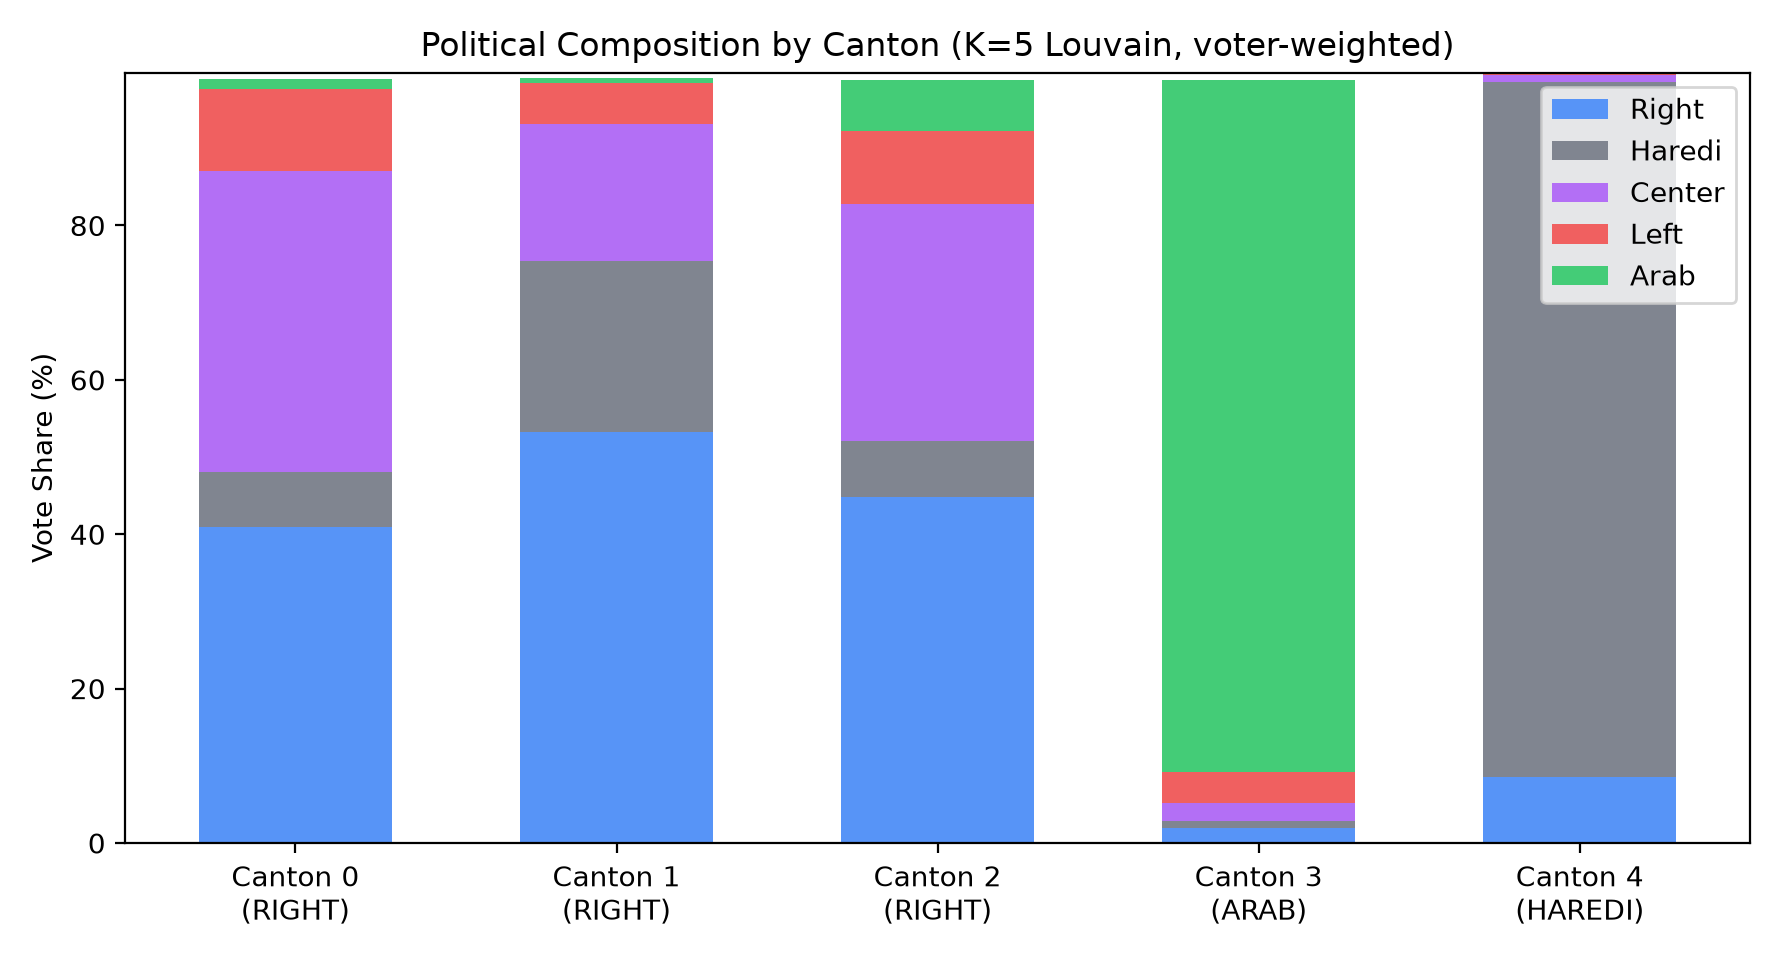
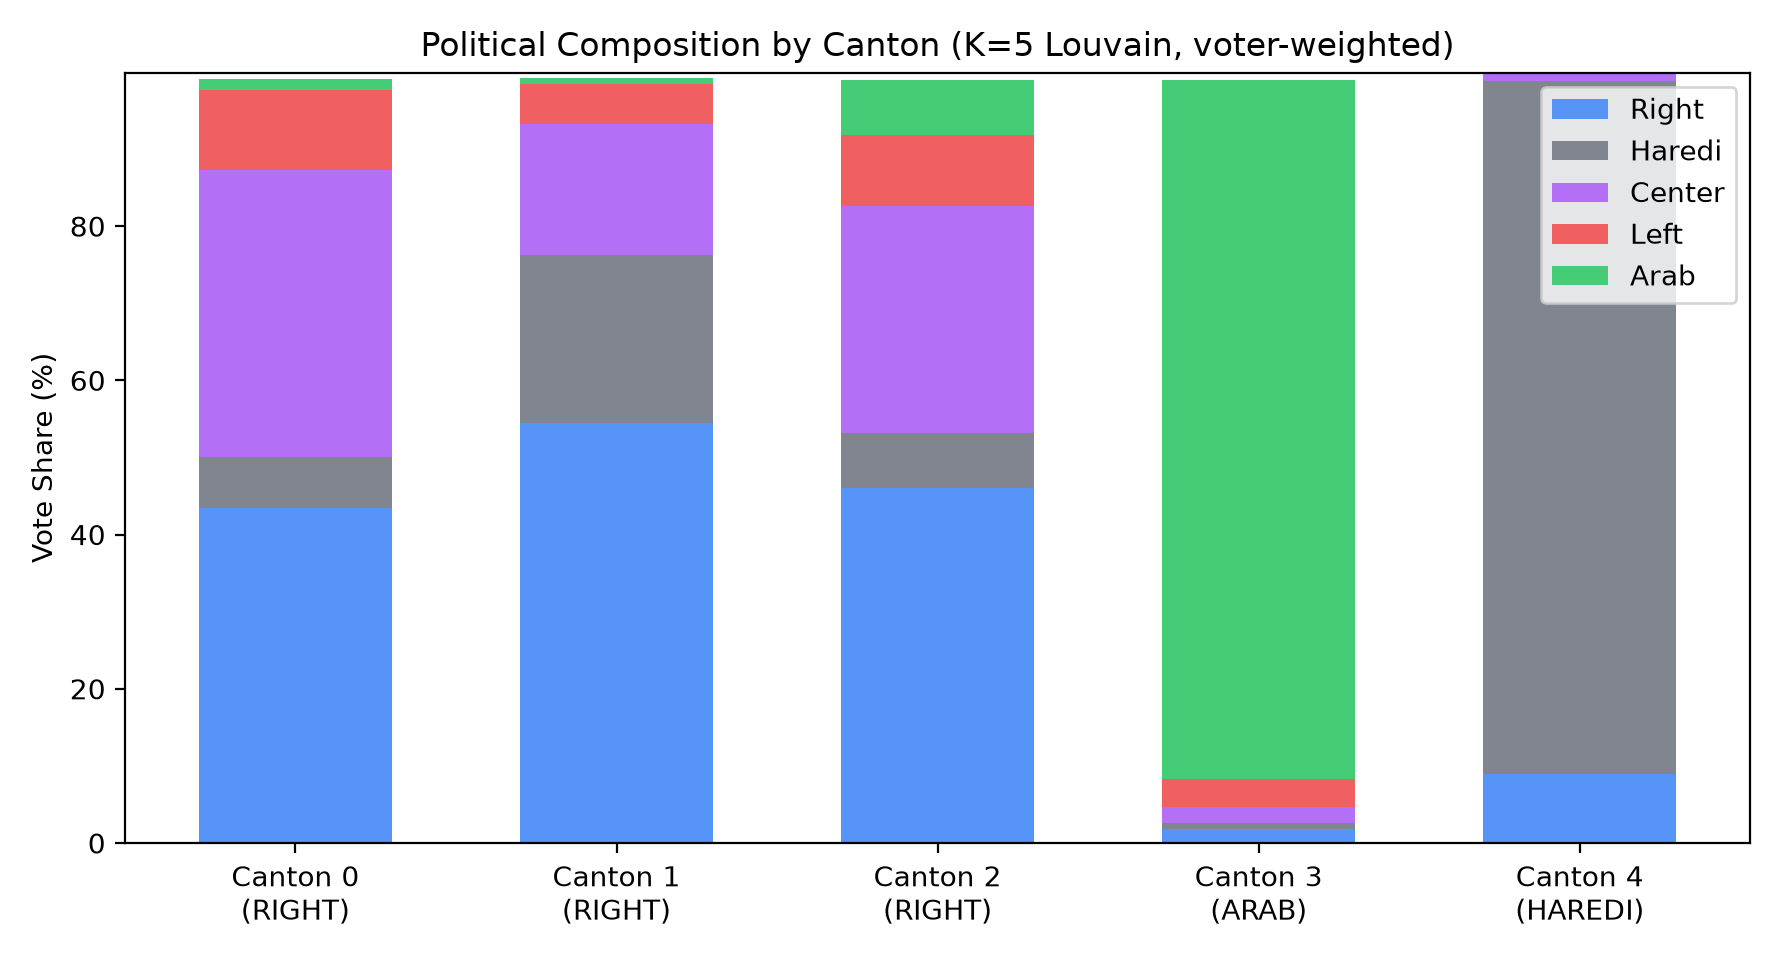
Describe the six elections in the app, README and figures
The About page reads its headline numbers from the data, the report
figures are redrawn from the 2019-2026 results, and the README and
changelog describe the October 2026 election and the experiments.
The thesis report and the arXiv paper still describe 2019-2022.

diff --git a/app/pages/4_About.py b/app/pages/4_About.py
@@ -7,7 +7,15 @@ import sys
 from pathlib import Path
 sys.path.insert(0, str(Path(__file__).resolve().parent.parent))
 
+import json
+
 from utils import (
+    DATA_DIR,
+    ELECTION_LABELS,
+    ELECTION_SPAN,
+    config_label,
+    load_experiment_results,
+    load_stability_results,
     canton_profiles,
     load_primary_assignment,
     load_political_features,
@@ -43,8 +51,8 @@ tab_method, tab_results, tab_data, tab_tech = st.tabs([
 with tab_method:
     st.subheader("Motivation")
     st.markdown(
-        "Over the past four years, Israel held five Knesset elections "
-        "(April 2019, September 2019, March 2020, March 2021, and November 2022). "
+        "Israel held five Knesset elections in under four years "
+        "(April 2019, September 2019, March 2020, March 2021, and November 2022), and a sixth in October 2026. "
         "Public discourse repeatedly invoked the notion of dividing Israel into "
         'separate "cantons" along political lines.\n\n'
         "This project applies data-driven computational methods to answer: "
@@ -62,7 +70,7 @@ with tab_method:
 | Representation | Dimensions | Description |
 |---|---|---|
 | **BlocShares** | 11 | Average + std of 5 political blocs across elections |
-| **RawParty** | 51 | Vote share of each list that won seats, per election |
+| **RawParty** | 62 | Vote share of each list that won seats, per election |
 | **PCA (5)** | 5 | Principal component analysis on raw party shares |
 | **NMF (5)** | 5 | Non-negative matrix factorization on raw party shares |
 """)
@@ -100,10 +108,14 @@ and JSD requires non-negative inputs. This excludes 24 configurations (288 - 24 
 with tab_results:
     st.subheader("Experiment Overview")
 
+    _ex = load_experiment_results()
+    _best = _ex.loc[_ex["silhouette"].idxmax()]
+    _stab = load_stability_results().set_index("config")["mean_ari"]
     r1, r2, r3 = st.columns(3)
-    r1.metric("Total Configurations", "264")
-    r2.metric("Highest Silhouette", "0.987", help="BlocShares / Cosine / Agglomerative, K=3")
-    r3.metric("Best Stability (ARI)", "0.992", help="BlocShares / Euclidean / Louvain -- near-deterministic on a fixed graph")
+    r1.metric("Total Configurations", f"{len(_ex)}")
+    r2.metric("Highest Silhouette", f"{_best['silhouette']:.3f}",
+              help=config_label(_best["repr"], _best["metric"], _best["algo"], int(_best["k_target"])))
+    r3.metric("Best Stability (ARI)", f"{_stab.max():.3f}", help=f"{_stab.idxmax()} -- deterministic on a fixed graph")
 
     st.divider()
 
@@ -137,7 +149,7 @@ with tab_results:
 4. **ARAB** -- Arab municipalities in the Galilee, the Triangle and the Negev ({_s(3, "arab")} Arab)
 5. **HAREDI Cities** -- Bnei Brak, El'ad, Rekhasim, Kiryat Ye'arim, Modi'in Illit, Beitar Illit and Immanuel ({_s(4, "haredi")} Haredi); not contiguous, joined by political similarity
 
-*Shares are weighted by voters and averaged over the five elections (2019-2022).*
+*Shares are weighted by voters and averaged over the {ELECTION_SPAN}.*
 """)
 
     canton_map_path = FIGURES_DIR / "canton_map_k5.png"
@@ -148,9 +160,9 @@ with tab_results:
 with tab_data:
     st.subheader("Election Data")
     st.markdown(
-        "Municipality-level results from **Knesset elections 21-25** "
-        "(Israel Central Bureau of Statistics). "
-        "**255 municipalities** with votes in all 5 elections, including the 23 Israeli local "
+        f"Municipality-level results from **Knesset elections {min(ELECTION_LABELS)}-{max(ELECTION_LABELS)}** "
+        "(Israel Central Bureau of Statistics; 2026 from the Central Elections Committee). "
+        f"**255 municipalities** with votes in all {len(ELECTION_LABELS)} elections, including the 23 Israeli local "
         "authorities in Judea and Samaria."
     )
 
@@ -196,7 +208,8 @@ with tab_data:
         "municipal layer (cities and local councils) and the Civil Administration's council and settlement "
         "jurisdiction layers (regional councils). "
         "Adjacency graph: 257 raw nodes, 574 edges. "
-        "After subsetting to 255 analysis municipalities and 3-step augmentation: 255 nodes, 2,490 edges."
+        "After subsetting to 255 analysis municipalities and 3-step augmentation: 255 nodes, "
+        f"{len(json.loads((DATA_DIR / 'adjacency_graph_augmented.json').read_text(encoding='utf-8'))['edges']):,} edges."
     )
 
 # ===== TECHNOLOGY TAB =======================================================

diff --git a/scripts/make_press_map.py b/scripts/make_press_map.py
@@ -60,6 +60,8 @@ INSET_LABELS = [
 # Label offset (points) and alignment for each side of the dot
 SIDES = {"w": ((-5, 0), "right", "center"), "e": ((5, 0), "left", "center"),
          "n": ((0, 5), "center", "bottom"), "s": ((0, -5), "center", "top")}
+COUNT_HE = {5: "חמש", 6: "שש", 7: "שבע"}
+COUNT_EN = {5: "five", 6: "six", 7: "seven"}
 BLOC_NAMES = {
     "he": ["ימין", "חרדים", "מרכז", "שמאל", "רשימות ערביות"],
     "en": ["Right", "Haredi", "Center", "Left", "Arab lists"],
@@ -68,7 +70,7 @@ BLOC_NAMES = {
 TEXT = {
     "he": {
         "title": "ישראל בחמישה קנטונים",
-        "subtitle": lambda m: f"{m['towns']} רשויות מקומיות, מקובצות לפי דפוסי ההצבעה בחמש מערכות הבחירות {m['first']}–{m['last']}",
+        "subtitle": lambda m: f"{m['towns']} רשויות מקומיות, מקובצות לפי דפוסי ההצבעה ב{COUNT_HE.get(m['n'], m['n'])} מערכות הבחירות {m['first']}–{m['last']}",
         "legend": "חמשת הקנטונים",
         "towns": "רשויות",
         "outside": "ללא תוצאות בכל מערכות הבחירות",
@@ -81,7 +83,7 @@ TEXT = {
     },
     "en": {
         "title": "Israel in five cantons",
-        "subtitle": lambda m: f"{m['towns']} local authorities, grouped by how they voted in the five elections of {m['first']}–{m['last']}",
+        "subtitle": lambda m: f"{m['towns']} local authorities, grouped by how they voted in the {COUNT_EN.get(m['n'], m['n'])} elections of {m['first']}–{m['last']}",
         "legend": "The five cantons",
         "towns": "municipalities",
         "outside": "No results in every election",
@@ -106,7 +108,7 @@ def load() -> tuple[gpd.GeoDataFrame, list[dict], dict]:
     cantons = json.loads((SITE_DATA / "cantons.json").read_text(encoding="utf-8"))
     meta = json.loads((SITE_DATA / "meta.json").read_text(encoding="utf-8"))
     years = [e["en"].split()[-1] for e in meta["elections"].values()]
-    meta = {**meta, "first": years[0], "last": years[-1]}
+    meta = {**meta, "first": years[0], "last": years[-1], "n": len(years)}
     final = dict(pd.read_csv(DATA_PROCESSED / "cantons_final.csv").values)
     geo = gpd.read_file(DATA_PROCESSED / "municipalities_dissolved.geojson").to_crs(2039)
     geo["geometry"] = gpd.GeoSeries(shapely.coverage_simplify(geo.geometry.values, SIMPLIFY_M), crs=2039)

diff --git a/app/pages/5_Compare_Cantons.py b/app/pages/5_Compare_Cantons.py
@@ -1,4 +1,4 @@
-"""Compare cantons: differences in bloc vote shares, tested on the 2022 election."""
+"""Compare cantons: differences in bloc vote shares, tested on an election the map did not use."""
 
 import sys
 from pathlib import Path

diff --git a/README.md b/README.md
@@ -10,7 +10,7 @@ Dividing Israel into politically homogeneous cantons based on Knesset election r
 
 ## Project Overview
 
-This M.Sc. project develops a data-driven algorithmic approach to partition Israeli municipalities into "cantons" of neighbouring municipalities that maximize internal political similarity. The system uses town-level election results from the five most recent Knesset elections (2019-2022) combined with municipal boundary data.
+This M.Sc. project develops a data-driven algorithmic approach to partition Israeli municipalities into "cantons" of neighbouring municipalities that maximize internal political similarity. The system uses town-level election results from the six most recent Knesset elections (2019–2026) combined with municipal boundary data.
 
 **Author:** Adir Elmakais — M.Sc. Computer Science, Bar-Ilan University
 **Advisor:** Dr. Oren Glickman
@@ -105,13 +105,14 @@ python scripts/sa_sensitivity.py       # 30-seed SA sensitivity (~50 min)
 python scripts/report_numbers.py       # every number the report and app quote
 python scripts/build_site_data.py      # site/data/*.json and site/og.png for the public map page
 python scripts/make_press_map.py       # docs/figures/press_map_{he,en}.{png,pdf}: A4 map for the press
+python scripts/experiments_2026.py     # the 2026 election and experiments A-D (data/processed/experiments_2026)
 ```
 
 Party classification lives in `data/reference/parties.csv`, including which lists formed the government after each election (`coalition`); run `rebuild_results.py` after changing it. The first two steps are needed only when boundaries change. Pushing `site/` to `main` deploys the public page (`.github/workflows/pages.yml`); to preview it locally, run `python -m http.server --directory site` and open http://localhost:8000. The notebooks document the original exploratory analysis; notebooks 05 and 06 save their outputs under separate names so they do not overwrite the published results.
 
-## Adding an Election (October 2026)
+## Adding an Election
 
-The Central Elections Committee must publish the official results within eight days of the vote (Basic Law: The Knesset, section 11); in 2022 the final count came two days after the vote and the official results on the eighth day. A rehearsal with a copy of the 2022 results as a sixth election ran every step below end to end; only the two checks meant to fail until steps 3 and 6 are done failed. Steps once the results by locality are out:
+The October 2026 election was added this way on 20 November 2026. The Central Elections Committee must publish the official results within eight days of the vote (Basic Law: The Knesset, section 11); in 2022 the final count came two days after the vote and the official results on the eighth day. A rehearsal with a copy of the 2022 results as a sixth election ran every step below end to end; only the two checks meant to fail until steps 3 and 6 are done failed. Steps once the results by locality are out:
 
 1. **Results file.** Download the committee's results **by locality** (one row per locality, not per ballot box): `סמל ועדה, שם ישוב, סמל ישוב, בזב, מצביעים, פסולים, כשרים`, then one column per ballot letter. Save it as `data/raw/elections/knesset_26_oct2026.csv`, preferably UTF-8 (ISO-8859-8 and Windows-1255 are also read). Every other column is read as a list, so remove any extra text or count columns.
 2. **Config.** Add `26: "knesset_26_oct2026.csv"` to `ELECTION_FILES` and `26: "October 2026"` to `ELECTION_LABELS` in `src/config.py` (the label must end with the year), and the same label to the copy in `app/utils.py`.
@@ -125,16 +126,17 @@ The Central Elections Committee must publish the official results within eight d
 ## Key Results
 
 - **255 municipalities**, including the 23 Israeli local authorities in Judea and Samaria, partitioned into **5 cantons** (primary result: NMF_5 / Cosine / Louvain)
-- Best silhouette score: **0.987** (BlocShares / Cosine / Agglomerative, K=3); primary K=5 partition: **0.142**
-- Temporal stability: ARI **0.992** (BlocShares Louvain), **0.954** (Agglomerative), **0.927** (primary partition)
-- Held-out test: cantons built from 2019-2021 differ in every bloc's vote share in the 2022 election (44 of 50 comparisons: 10 canton pairs × 5 blocs)
+- Best silhouette score: **0.978** (BlocShares / Cosine / Agglomerative, K=3); primary K=5 partition: **0.114**
+- Temporal stability: ARI **0.956** (BlocShares Louvain and the primary partition), **0.822** (Agglomerative)
+- Held-out test: cantons built from 2019–2022 differ in every bloc's vote share in the 2026 election (44 of 50 comparisons: 10 canton pairs × 5 blocs)
 - 264 experiment configurations, 0 failures
 - Cantons: METRO Tel Aviv, RIGHT Jerusalem & South, RIGHT North, ARAB, and HAREDI Cities (seven non-contiguous cities)
-- Coalition and opposition, as a description of the cantons (never an input): the share of each canton's vote for the lists that formed the government after the election. HAREDI Cities gave 2.1% to the Bennett–Lapid coalition (2021) and 98.5% to the Netanyahu coalition (2022); ARAB 47.7% and 1.6%; METRO Tel Aviv 62.0% and 42.8%. No government was formed after either 2019 election, and after 2020 lists split, so those elections are not characterised.
+- Coalition and opposition, as a description of the cantons (never an input): the share of each canton's vote for the lists that formed the government after the election. HAREDI Cities gave 2.1% to the Bennett–Lapid coalition (2021) and 98.5% to the Netanyahu coalition (2022); ARAB 47.7% and 1.6%; METRO Tel Aviv 62.0% and 42.8%. No government was formed after either 2019 election, and after 2020 lists split, so those elections are not characterised; no government has been formed yet after the 2026 election.
+- The 2026 election (`scripts/experiments_2026.py`): adding it moves only 2 municipalities; the map built from 2026 alone moves 40, mostly the Tel Aviv metro's suburbs into RIGHT Jerusalem & South. Turnout in the ARAB canton rose from 55% to 81%. The cantons match the 2026 camps (Netanyahu 53 seats, change 48, Arab 19) only in the ARAB and HAREDI cantons; with no geographic constraint the clusters follow the camps closely but break into 114 pieces.
 
-Results were regenerated in October 2026 after fixing the party-to-bloc mapping, adding the Judea and Samaria authorities and switching the party-level representation to vote shares per list and election (see `CHANGELOG.md`).
+Results were regenerated in October 2026 after fixing the party-to-bloc mapping, adding the Judea and Samaria authorities and switching the party-level representation to vote shares per list and election, and in November 2026 with the October 2026 election (see `CHANGELOG.md`). The report and the arXiv paper describe the five elections of 2019–2022.
 
 ## Data Sources
 
-- **Election Data:** Israel Central Bureau of Statistics (CBS), Knesset elections 21-25
+- **Election Data:** Israel Central Bureau of Statistics (CBS), Knesset elections 21-25; Central Elections Committee, results by locality, Knesset election 26 (October 2026)
 - **Geographic Data:** CBS GIS repository, municipal boundary polygons

diff --git a/CHANGELOG.md b/CHANGELOG.md
@@ -1,5 +1,14 @@
 # Changelog
 
+## November 2026 — the October 2026 election
+
+The official results by locality for the 26th Knesset (Central Elections Committee, `data/raw/elections/knesset_26_oct2026.csv`) join the five earlier elections; all 255 municipalities match. The 2026 lists are in `data/reference/parties.csv` with their blocs and, in a new `camp` column, their camp by the seats won (Netanyahu 53, change 48, Arab 19). Judgement calls: Bennett's Together counts as Right (as Yamina did in 2021), the Reservists (2.7%) as Center and Amcha Israel (1.7%) as Right; neither passed the threshold.
+
+- Every result is rebuilt on the six elections: 62 party-by-election features, 264 configurations with no errors. The primary map moves only Or Akiva and Harish (between RIGHT North and RIGHT Jerusalem & South); stability ARI 0.927 → 0.956; primary silhouette 0.142 → 0.114. The held-out test now builds the cantons from 2019–2022 and tests them on 2026: 44 of 50 comparisons differ.
+- `scripts/experiments_2026.py` runs the advisor's experiments: the method on 2019–2022, 2019–2026 and 2026 alone (2026 alone moves 40 towns, mostly the metro's suburbs to the right); the cantons against three classifications of the 2026 camps; the map with no geographic constraint (it follows the camps, NMI 0.75 against 0.42, but in 114 pieces); 3 to 10 cantons and stricter or looser links. It also measures turnout (the ARAB canton 55% → 81%), the Shas vote and the towns that swung.
+- The public map shows six elections and says no government has been formed yet after 2026. The five primary cantons keep their published colours (METRO Tel Aviv is no longer within 5 points between Right and Center, which would have repainted the map), and the page names the elections whose own maps actually differ most.
+- The app's About page reads its headline numbers from the data.
+
 ## October 2026 — coalition and opposition
 
 Each election is characterised by the government formed after it: the Bennett–Lapid government (36th) after March 2021 and the Netanyahu government (37th) after November 2022. The lists are marked in a new `coalition` column of `data/reference/parties.csv`. No government was formed after either 2019 election, and after March 2020 lists split (Blue and White; Labor–Gesher–Meretz), so their votes cannot be assigned. The coalition only describes the cantons; it is not used to build them, and the map is unchanged.
